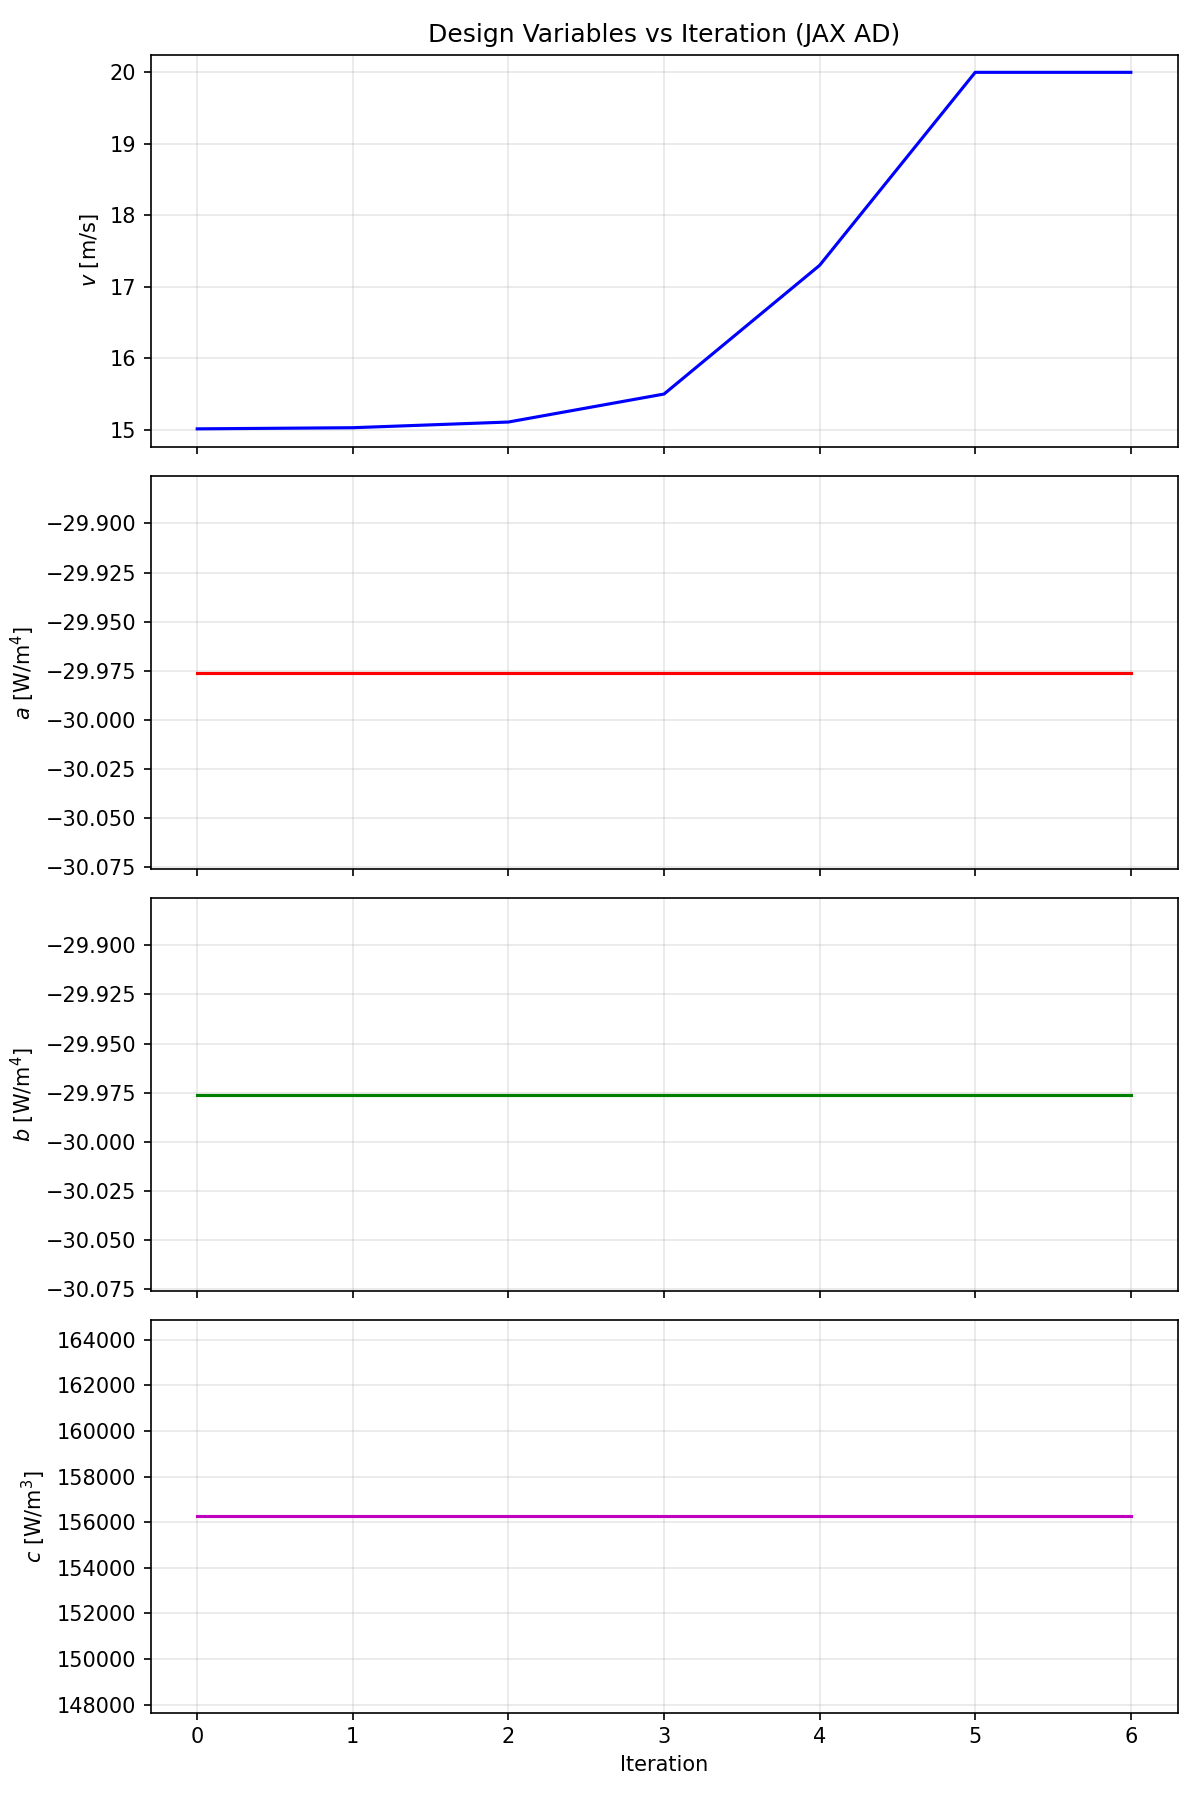
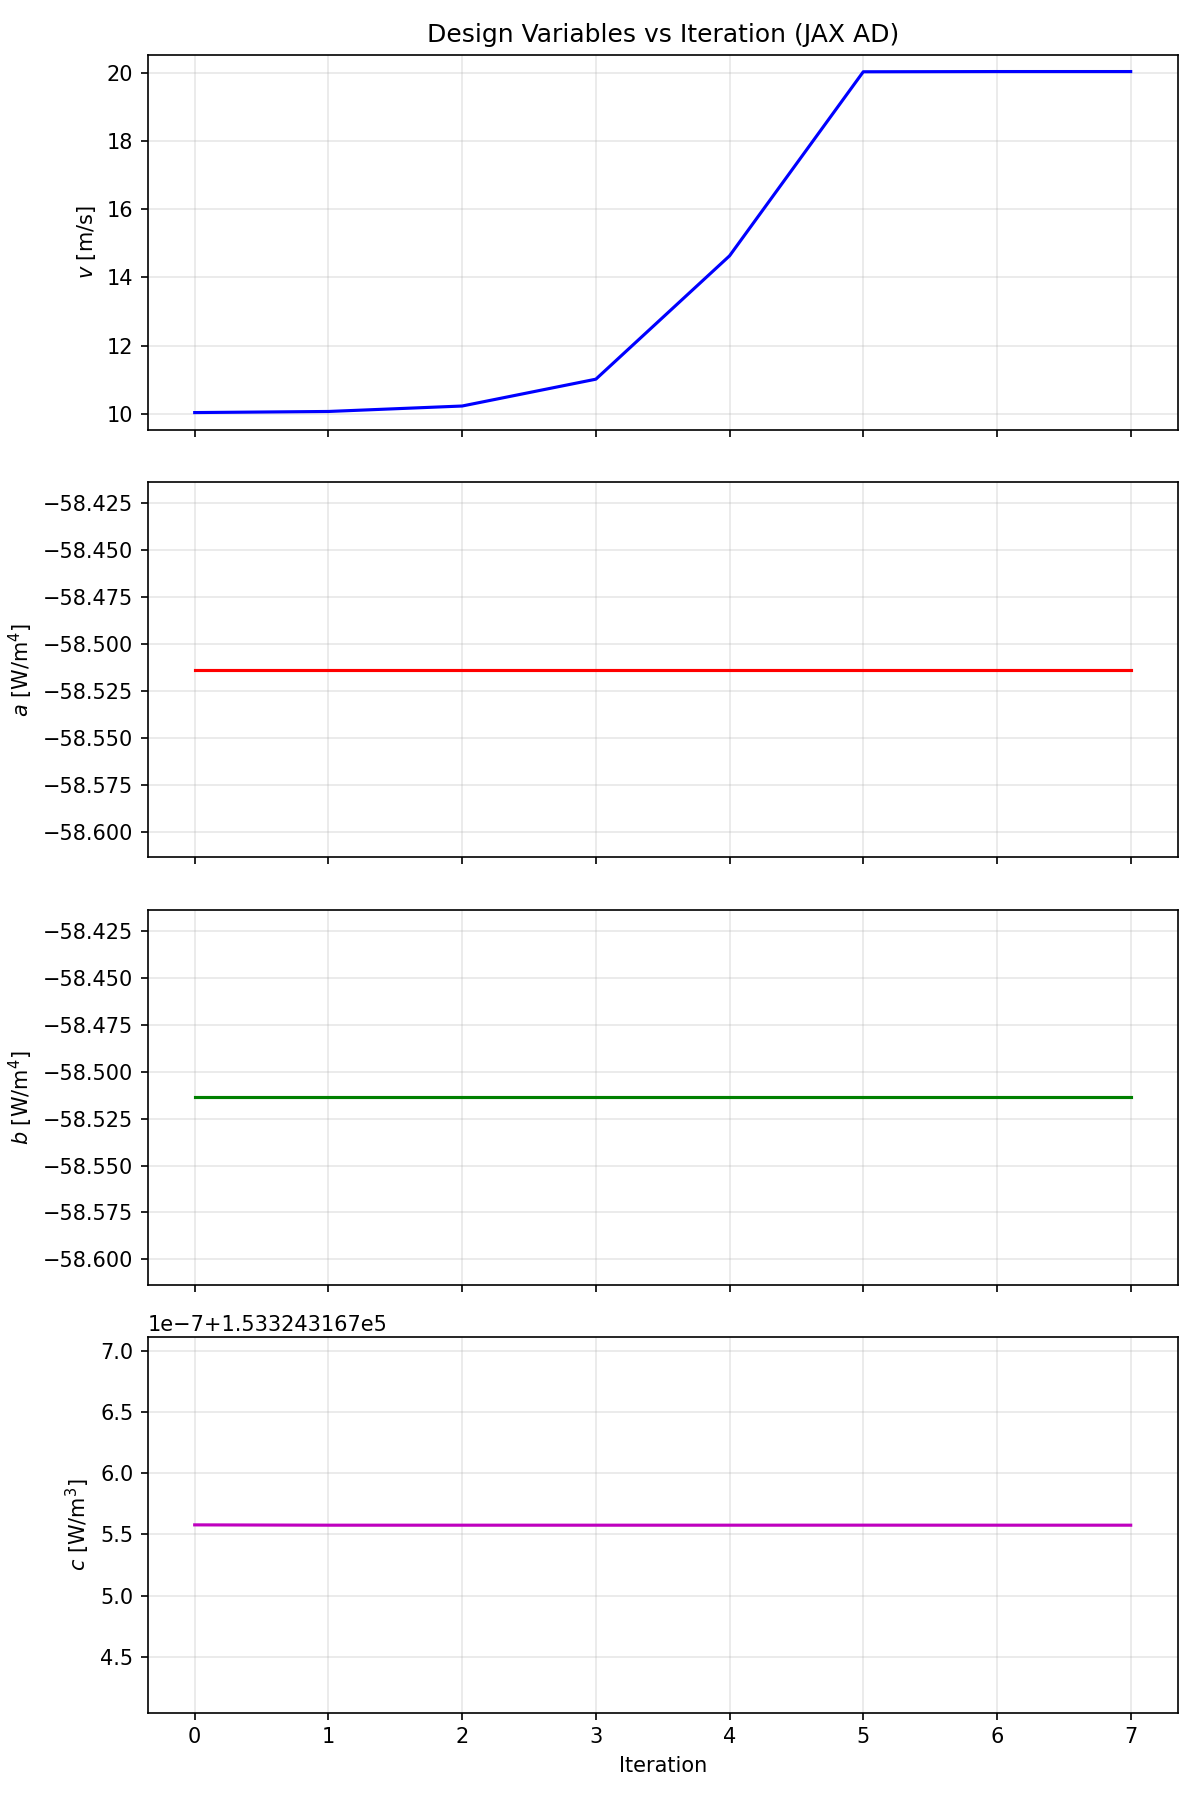
made the codes the same

diff --git a/Final_Project/jax_ad_heat.py b/Final_Project/jax_ad_heat.py
@@ -11,6 +11,7 @@ from jax import lax
 import numpy as np
 import matplotlib.pyplot as plt
 from scipy import optimize
+from functools import partial
 
 # Enable float64 for better numerical precision
 jax.config.update("jax_enable_x64", True)
@@ -37,8 +38,8 @@ EXT_NU = 1.506e-5  # m²/s kinematic viscosity
 EXT_T = 293.0  # K (20°C)
 
 # Numerical parameters
-CFL = 0.25  # Slightly increased for faster evolution
-MAX_ITER = 500  # Increased to better match FD convergence (FD runs until tol=1e-3)  
+CFL = 0.25  # Match working code
+MAX_ITER = 50000  # Match working code (was 500, too few iterations)  
 
 # Derived mesh quantities
 dx = CPU_X / (N - 1)
@@ -67,33 +68,40 @@ def heat_generation(X, Y, a, b, c):
 
 
 def compute_total_heat(a, b, c):
-    """Compute total heat generation using trapezoidal rule"""
+    """Compute total heat generation using trapezoidal rule.
+    
+    NOTE: This matches Callum's implementation which has a quirk:
+    - Rows 0 and N-1 are divided by 2 twice (effectively by 4)
+    - Columns 0 and N-1 are NOT divided (except at corners)
+    This is needed to match Callum's optimization results.
+    """
     q = heat_generation(X, Y, a, b, c) * dx * dy * CPU_Z
     i0, iN, j0, jN = 0, N - 1, 0, N - 1
     
-    # Trapezoidal weights
-    weights = jnp.ones_like(q)
-    weights = weights.at[i0, :].multiply(0.5)
-    weights = weights.at[iN, :].multiply(0.5)
-    weights = weights.at[:, j0].multiply(0.5)
-    weights = weights.at[:, jN].multiply(0.5)
+    # Match Callum's "buggy" implementation for consistency
+    # Faces - note j0 and jN index ROWS, not columns (matching Callum's code)
+    q = q.at[i0, :].divide(2.0)
+    q = q.at[iN, :].divide(2.0)
+    q = q.at[j0, :].divide(2.0)  # This divides row 0 again!
+    q = q.at[jN, :].divide(2.0)  # This divides row N-1 again!
     
-    return jnp.sum(q * weights)
+    # Corners
+    q = q.at[i0, j0].divide(2.0)
+    q = q.at[iN, jN].divide(2.0)
+    q = q.at[iN, j0].divide(2.0)
+    q = q.at[i0, jN].divide(2.0)
+    
+    return jnp.sum(q)
 
 
 def h_boundary(u):
     """Natural convection heat transfer coefficient (Churchill-Chu)"""
     # Use film temperature for properties
-    T_film = (u + EXT_T) / 2
-    T_film = jnp.maximum(T_film, 1.0)  # Safe lower bound
-    beta = 1.0 / T_film
+    beta = 1.0 / ((u + EXT_T) / 2.0)
     
-    # Temperature difference (use abs to handle both heating and cooling)
-    dT = jnp.abs(u - EXT_T)
-    dT = jnp.maximum(dT, 1e-6)  # Avoid zero
-    
-    rayleigh = 9.81 * beta * dT * dx**3 / (EXT_NU**2) * EXT_PR
-    rayleigh = jnp.maximum(rayleigh, 1.0)  # Minimum Rayleigh for stability
+    # Temperature difference - DO NOT use abs() as it breaks automatic differentiation!
+    rayleigh = 9.81 * beta * (u - EXT_T) * dx**3 / (EXT_NU**2) * EXT_PR
+    rayleigh = jnp.maximum(rayleigh, 0.0)  # Minimum Rayleigh (0.0, not 1.0)
     
     nusselt = (0.825 + (0.387 * rayleigh**(1/6)) /
                (1 + (0.492/EXT_PR)**(9/16))**(8/27))**2
@@ -123,14 +131,28 @@ def initial_condition():
 # Time-stepping (Pure Functional)
 # ============================================================================
 
-def step_forward(u, v, a, b, c):
-    """Single time step update - pure function, returns new u"""
+def step_forward(u, X_grid, Y_grid, params):
+    """Single time step update - pure function, returns new u.
+    
+    This signature matches Callum's step_forward_jax exactly:
+    - u: current temperature field
+    - X_grid, Y_grid: mesh grids (passed explicitly, not as closures)
+    - params: dictionary with 'v', 'a', 'b', 'c' keys
+    
+    This structure with explicit arguments (not closures) is CRITICAL
+    for JAX to properly trace and differentiate through lax.scan.
+    """
+    v = params['v']
+    a = params['a']
+    b = params['b']
+    c = params['c']
+    
     i0, j0, iN, jN = 0, 0, N - 1, N - 1
     
     # Compute heat transfer coefficients
     h_b = h_boundary(u)
     h_t = h_top(v)
-    e_dot = heat_generation(X, Y, a, b, c)
+    e_dot = heat_generation(X_grid, Y_grid, a, b, c)
     
     old_u = u
     new_u = u
@@ -151,7 +173,8 @@ def step_forward(u, v, a, b, c):
     left = (
         old_u[i0, 1:-1] +
         2 * tau * h_b[i0, 1:-1] / K_SI * dy * (EXT_T - old_u[i0, 1:-1]) +
-        tau * dx * (old_u[i0, 2:] - 2*old_u[i0, 1:-1] + old_u[i0, :-2]) / dy +
+        tau * dx * (old_u[i0, 2:] - old_u[i0, 1:-1]) / dy +
+        tau * dx * (old_u[i0, 1:-1] - old_u[i0, 2:]) / dy +
         2 * tau * dy * (old_u[i0+1, 1:-1] - old_u[i0, 1:-1]) / dx +
         tau * h_t[i0, 1:-1] / K_SI * dx * dy / CPU_Z * (EXT_T - old_u[i0, 1:-1]) +
         tau * e_dot[i0, 1:-1] / K_SI * dx * dy
@@ -162,7 +185,8 @@ def step_forward(u, v, a, b, c):
     right = (
         old_u[iN, 1:-1] +
         2 * tau * h_b[iN, 1:-1] / K_SI * dy * (EXT_T - old_u[iN, 1:-1]) +
-        tau * dx * (old_u[iN, 2:] - 2*old_u[iN, 1:-1] + old_u[iN, :-2]) / dy +
+        tau * dx * (old_u[iN, 2:] - old_u[iN, 1:-1]) / dy +
+        tau * dx * (old_u[iN, 1:-1] - old_u[iN, 2:]) / dy +
         2 * tau * dy * (old_u[iN-1, 1:-1] - old_u[iN, 1:-1]) / dx +
         tau * h_t[iN, 1:-1] / K_SI * dx * dy / CPU_Z * (EXT_T - old_u[iN, 1:-1]) +
         tau * e_dot[iN, 1:-1] / K_SI * dx * dy
@@ -173,7 +197,8 @@ def step_forward(u, v, a, b, c):
     bottom = (
         old_u[1:-1, j0] +
         2 * tau * h_b[1:-1, j0] / K_SI * dx * (EXT_T - old_u[1:-1, j0]) +
-        tau * dy * (old_u[2:, j0] - 2*old_u[1:-1, j0] + old_u[:-2, j0]) / dx +
+        tau * dy * (old_u[2:, j0] - old_u[1:-1, j0]) / dx +
+        tau * dy * (old_u[1:-1, j0] - old_u[2:, j0]) / dx +
         2 * tau * dx * (old_u[1:-1, j0+1] - old_u[1:-1, j0]) / dy +
         tau * h_t[1:-1, j0] / K_SI * dx * dy / CPU_Z * (EXT_T - old_u[1:-1, j0]) +
         tau * e_dot[1:-1, j0] / K_SI * dx * dy
@@ -184,7 +209,8 @@ def step_forward(u, v, a, b, c):
     top = (
         old_u[1:-1, jN] +
         2 * tau * h_b[1:-1, jN] / K_SI * dx * (EXT_T - old_u[1:-1, jN]) +
-        tau * dy * (old_u[2:, jN] - 2*old_u[1:-1, jN] + old_u[:-2, jN]) / dx +
+        tau * dy * (old_u[2:, jN] - old_u[1:-1, jN]) / dx +
+        tau * dy * (old_u[1:-1, jN] - old_u[2:, jN]) / dx +
         2 * tau * dx * (old_u[1:-1, jN-1] - old_u[1:-1, jN]) / dy +
         tau * h_t[1:-1, jN] / K_SI * dx * dy / CPU_Z * (EXT_T - old_u[1:-1, jN]) +
         tau * e_dot[1:-1, jN] / K_SI * dx * dy
@@ -239,19 +265,40 @@ def step_forward(u, v, a, b, c):
     return new_u
 
 
+@partial(jax.jit, static_argnums=(4,))
+def run_solver(u0, X_grid, Y_grid, params, n_steps):
+    """
+    JIT-compiled solver that runs n_steps of the heat equation.
+    
+    This structure EXACTLY matches Callum's run_solver_jax:
+    - params is a TRACED argument (not static), so JAX can differentiate through it
+    - n_steps is STATIC (position 4), so JAX compiles for each different value
+    - body_fun closes over params, but since params is traced by this JIT'd function,
+      JAX can properly compute gradients through the closure
+    
+    This is the KEY pattern that makes gradients work correctly!
+    """
+    def body_fun(u, _):
+        u_next = step_forward(u, X_grid, Y_grid, params)
+        return u_next, None
+    
+    u_final, _ = lax.scan(body_fun, u0, xs=None, length=n_steps)
+    return u_final
+
+
 def solve_steady_state(v, a, b, c, num_iter=MAX_ITER):
     """
-    Solve to steady state using jax.lax.fori_loop (JAX-differentiable).
+    Solve to steady state using the JIT-compiled run_solver.
     
-    Uses fixed iteration count so JAX can differentiate through it.
     Returns the steady-state temperature field.
     """
     u0 = initial_condition()
     
-    def body_fun(i, u):
-        return step_forward(u, v, a, b, c)
+    # Pack parameters into a dict - this is passed to the JIT'd solver
+    params = {'v': v, 'a': a, 'b': b, 'c': c}
     
-    final_u = lax.fori_loop(0, num_iter, body_fun, u0)
+    # Call the JIT'd solver - params flows through as a traced pytree
+    final_u = run_solver(u0, X, Y, params, num_iter)
     
     return final_u
 
@@ -263,15 +310,15 @@ def solve_steady_state_with_error(v, a, b, c, num_iter=MAX_ITER):
     Returns (u_final, error) where error = ||u_new - u_old||_inf
     """
     u0 = initial_condition()
-    u_prev = u0
     
-    def body_fun(i, u):
-        return step_forward(u, v, a, b, c)
+    # Pack parameters into a dict
+    params = {'v': v, 'a': a, 'b': b, 'c': c}
     
-    final_u = lax.fori_loop(0, num_iter, body_fun, u0)
+    # Use the JIT'd solver
+    final_u = run_solver(u0, X, Y, params, num_iter)
     
     # Compute error by doing one more step
-    u_one_more = step_forward(final_u, v, a, b, c)
+    u_one_more = step_forward(final_u, X, Y, params)
     error = jnp.linalg.norm(u_one_more - final_u, jnp.inf)
     
     return final_u, error
@@ -290,8 +337,10 @@ def objective_function(x):
     Objective: w1 * max(T)/273 - w2 * eta(v)
     
     x = [v, a, b, c]
+    
+    Uses tuple unpacking like Callum's working code.
     """
-    v, a, b, c = x[0], x[1], x[2], x[3]
+    v, a, b, c = x  # Tuple unpacking (matches Callum's code)
     
     # Solve for steady-state temperature
     u = solve_steady_state(v, a, b, c)
@@ -305,7 +354,7 @@ def objective_function(x):
 
 def constraint_total_heat(x):
     """Equality constraint: total heat = 10W"""
-    a, b, c = x[1], x[2], x[3]
+    v, a, b, c = x  # Tuple unpacking
     return compute_total_heat(a, b, c) - 10.0
 
 
@@ -532,11 +581,12 @@ def run_optimization():
         
         return False  # Don't stop optimization
     
-    # Initial guess (same as heat_eq_2D_opt.py)
-    v0 = 15.0
-    a0 = -30.0
-    b0 = -30.0
-    c0 = 156250.0  # ≈ NOT 10W total, just for testing
+    # Initial guess - matching Callum's
+    v0 = 10.0
+    x0_heat = 0.0  # Callum uses 0.0
+    a0 = x0_heat * 1e5
+    b0 = x0_heat * 1e5
+    c0 = 156250.0 - 0.02 * a0 - 0.02 * b0
     x0 = np.array([v0, a0, b0, c0])
     
     # Bounds (same as heat_eq_2D_opt.py)
